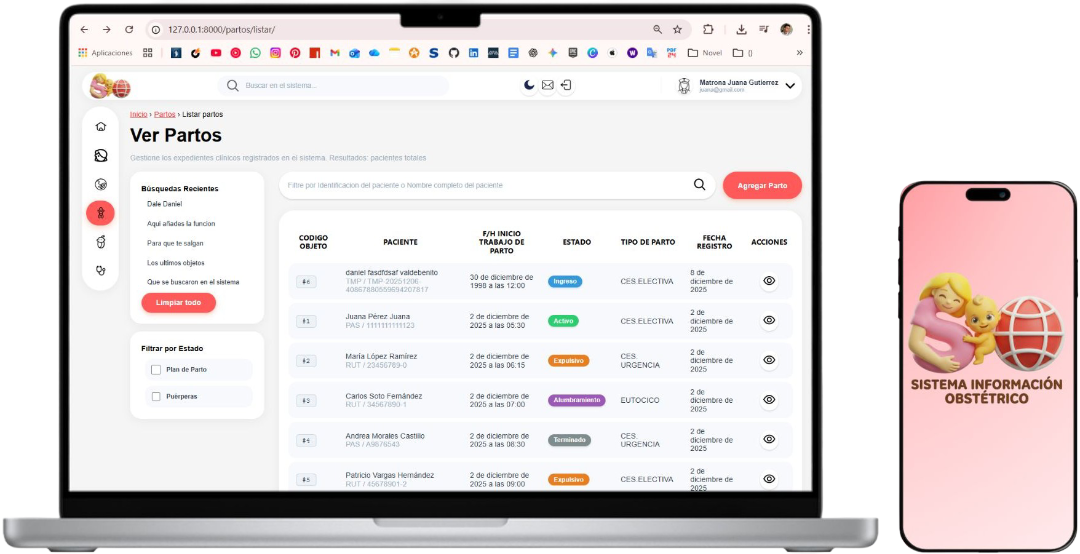
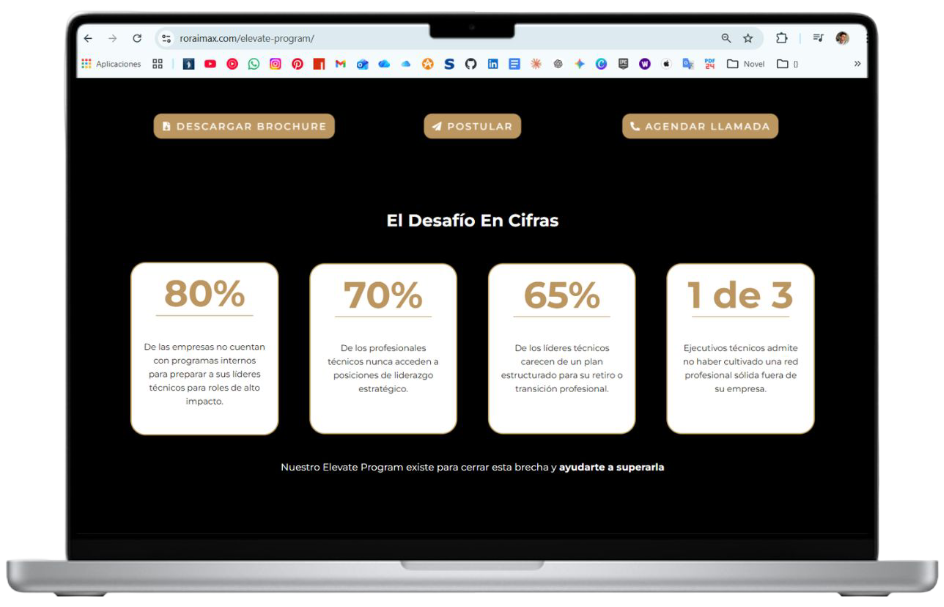
RRMX and UMDT at 90% complete, little details remaining

diff --git a/src/components/projects/solutions/roraimax/RoraimaxBentoGrid.module.css b/src/components/projects/solutions/roraimax/RoraimaxBentoGrid.module.css
@@ -1,6 +1,6 @@
 .roraimaxGrid {
   --roraimax-primary: #d99330;
-  --roraimax-reload: #ffa200; /* Ajustado a un naranja más cercano al boceto */
+  --roraimax-reload: #ffad39;
 
   display: grid;
   width: 100%;
@@ -162,7 +162,7 @@
 
 .heroTitle {
   font-family: var(--font-body);
-  font-size: 1.8rem;
+  font-size: 1.5rem;
   font-weight: 800;
   color: var(--color-text);
   margin: 0 0 0.3rem 0;
@@ -171,8 +171,18 @@
 .gradientText {
   display: block;
   font-size: 1.6rem;
-  color: var(--roraimax-primary);
+  background: linear-gradient(
+    180deg,
+    #ffd89e 0%,
+    #ffad39 30%,
+    #d99330 65%,
+    #a67324 100%
+  );
+  -webkit-background-clip: text;
+  background-clip: text;
+  color: transparent;
   font-weight: 700;
+  margin-top: -.5rem;
 }
 
 /* Layout interno del Hero para replicar el boceto */
@@ -219,43 +229,52 @@
 .brandingGrid {
   display: flex;
   flex-direction: column;
-  align-items: center;
-  justify-content: space-between;
+  justify-content: center;
+  width: 100%;
   height: 100%;
-  gap: 1rem;
+  gap: 1.5rem; /* Separación vertical entre las dos filas */
+  padding: 0.5rem 0;
 }
 
-.brandingTopRow {
+/* El contenedor clave para alinear a los extremos */
+.brandingRow {
   display: flex;
   align-items: center;
-  justify-content: center;
-  gap: 1.5rem;
+  justify-content: space-between;
   width: 100%;
 }
 
-.brandingLogo { width: 50px; object-fit: contain; }
-.heroTextImg { width: 100px; object-fit: contain; }
+/* Fila Superior */
+.brandingLogo { 
+  width: 90px; /* Más ancho para igualar el isotipo del boceto */
+  height: auto;
+  object-fit: contain; 
+}
 
 .colorPalette {
   display: flex;
   gap: 0.8rem;
-  justify-content: center;
+  align-items: center;
 }
 
 .colorCircle {
-  width: 36px;
-  height: 36px;
-  border-radius: 50%;
+  width: 38px;
+  height: 38px;
+  border-radius: 50%; /* Asegura el círculo perfecto */
+}
+
+/* Fila Inferior */
+.heroTextImg { 
+  width: 95px; 
+  height: auto;
+  object-fit: contain; 
 }
 
 .brandingButton {
-  width: 100%;
-  max-width: 140px;
+  width: 115px; /* Ajuste para el botón */
+  height: auto;
   object-fit: contain;
-  transition: transform 0.2s;
-  cursor: pointer;
 }
-.brandingButton:hover { transform: scale(1.05); }
 
 /* ── CARD 5: De negocio a diseño (Naranja - Horizontal) ──── */
 .cardReload {
@@ -265,19 +284,19 @@
   justify-content: center;
   gap: 1rem;
   padding: 1.5rem 1rem;
-  border-radius: 1.5rem; /* Bordes de píldora redondos si quieres más efecto: 3rem */
+  border-radius: 1.5rem; 
 }
 
 .reloadIcon {
-  width: 45px;
-  height: 45px;
+  width: 56px;
+  height: 56px;
   object-fit: contain;
 }
 
 .reloadLabel {
   font-family: var(--font-body);
-  font-size: 1.2rem;
-  font-weight: 800;
+  font-size: 1.1rem;
+  font-weight: 700;
   color: white;
   line-height: 1.2;
 }
@@ -287,37 +306,58 @@
   width: 100%;
   height: 100%;
   object-fit: cover;
-  border-radius: 12px;
+  border-radius: 1.3rem;
 }
 
-/* ── Responsive ──────────────────────────────────────────── */
-@media (max-width: 950px) {
+@media (max-width: 900px) {
   .roraimaxGrid {
     grid-template-columns: 1fr 1fr;
-    grid-template-rows: auto;
   }
 
-  /* Reordenamos para Tablet */
-  .heroCard      { grid-column: 1 / 3; grid-row: 1 / 2; }
-  .cardImpact    { grid-column: 1 / 2; grid-row: 2 / 3; }
-  .cardBranding  { grid-column: 2 / 3; grid-row: 2 / 3; }
-  .cardTech      { grid-column: 1 / 2; grid-row: 3 / 4; }
-  .cardReload    { grid-column: 2 / 3; grid-row: 3 / 4; }
-  .cardMentorship{ grid-column: 1 / 3; grid-row: 4 / 5; }
+  .heroCard       { grid-column: 1 / 3; grid-row: 1 / 2; }
+  .cardImpact     { grid-column: 1 / 2; grid-row: 2 / 3; }
+  .cardBranding   { grid-column: 2 / 3; grid-row: 2 / 3; }
+  .cardTech       { grid-column: 1 / 2; grid-row: 3 / 4; }
+  .cardReload     { grid-column: 2 / 3; grid-row: 3 / 4; }
+  .cardMentorship { grid-column: 1 / 3; grid-row: 4 / 5; }
 }
 
-@media (max-width: 650px) {
+@media (max-width: 600px) {
   .roraimaxGrid {
     grid-template-columns: 1fr;
-    padding: 1rem;
+    padding: 0 1rem;
   }
 
-  .heroCard, .cardImpact, .cardTech, .cardBranding, .cardReload, .cardMentorship {
+  .heroCard,
+  .cardImpact,
+  .cardTech,
+  .cardBranding,
+  .cardReload,
+  .cardMentorship {
     grid-column: 1 / 2;
     grid-row: auto;
   }
 
-  .heroImages { gap: 1rem; }
-  .heroLaptop { max-width: 260px; }
-  .heroPhone { max-width: 80px; }
+  .heroCard { order: -1; }
+  
+  .heroImages {
+    flex-direction: column;
+    align-items: center;
+    gap: 1rem;
+  }
+  
+  .heroLaptop {
+    width: 90%;
+    max-width: none;
+  }
+  
+  .heroPhone {
+    width: 70%;
+    margin-top: 2rem;
+  }
+
+  .heroExperience {
+    text-align: center;
+    max-width: none;
+  }
 }

diff --git a/src/components/projects/solutions/roraimax/RoraimaxBentoGrid.tsx b/src/components/projects/solutions/roraimax/RoraimaxBentoGrid.tsx
@@ -13,6 +13,7 @@ import circleGold     from '../../../../assets/RRMX/circle-gold.png';
 import circleBlack    from '../../../../assets/RRMX/circle-black.png';
 import montserratText from '../../../../assets/RRMX/montserrat.png';
 import rrmxButton     from '../../../../assets/RRMX/rrmx-button.png';
+import meetIcon       from '../../../../assets/RRMX/meeting.png';
 
 // ── Tech stack ────────────────────────────────────────────
 const techStack = [
@@ -28,7 +29,7 @@ const RoraimaxBentoGrid = () => {
       {/* ── 1. IMPACTO EN MARCA ───────────────────────── */}
       <div className={`${styles.card} ${styles.cardImpact} ${styles.animate} ${styles.delay0}`}>
         <span className={styles.cardLabel}>Impacto en marca</span>
-        <img src={laptopMockup} alt="Impacto en marca" className={styles.impactImg} />
+        <img src={meetIcon} alt="Impacto en marca" className={styles.impactImg} />
       </div>
 
       {/* ── 2. STACK TECNOLÓGICO ───────────────────────── */}
@@ -81,17 +82,22 @@ const RoraimaxBentoGrid = () => {
         <span className={styles.cardLabel}>Dirección visual Premium</span>
 
         <div className={styles.brandingGrid}>
-          <div className={styles.brandingTopRow}>
+          
+          {/* Fila Superior: Logo y Círculos */}
+          <div className={styles.brandingRow}>
             <img src={rrmxLogo} alt="Logo" className={styles.brandingLogo} />
+            <div className={styles.colorPalette}>
+              <img src={circleGold} alt="Dorado" className={styles.colorCircle} />
+              <img src={circleBlack} alt="Negro" className={styles.colorCircle} />
+            </div>
+          </div>
+
+          {/* Fila Inferior: Texto y Botón */}
+          <div className={styles.brandingRow}>
             <img src={montserratText} alt="Roraimax" className={styles.heroTextImg} />
+            <img src={rrmxButton} alt="POSTULAR" className={styles.brandingButton} />
           </div>
 
-          <div className={styles.colorPalette}>
-            <img src={circleGold} alt="Dorado" className={styles.colorCircle} />
-            <img src={circleBlack} alt="Negro" className={styles.colorCircle} />
-          </div>
-
-          <img src={rrmxButton} alt="POSTULAR" className={styles.brandingButton} />
         </div>
       </div>
 

diff --git a/src/components/projects/solutions/umdt/UMDTBentoGrid.module.css b/src/components/projects/solutions/umdt/UMDTBentoGrid.module.css
@@ -2,13 +2,7 @@
    UMDTBentoGrid.module.css — Estilos para "Un Millón de Traumas"
    ============================================================ */
 
-.umdtGrid {
-  /* Usamos variables locales para los colores del diseño */
-  --color-bg-card: #f4f4f6;
-  --color-text-main: #000000;
-  --color-blue: #0020c2;
-  --color-red: #e60000;
-  
+.umdtGrid {  
   display: flex;
   flex-direction: row;
   align-items: center; /* Alinea las tarjetas al centro verticalmente */
@@ -50,7 +44,7 @@
 }
 
 .cardLabel {
-  font-family: system-ui, -apple-system, sans-serif;
+  font-family: var(--font-body);
   font-size: 1.15rem;
   font-weight: 700;
   color: var(--color-text);
@@ -171,7 +165,7 @@
 }
 
 .techItem:hover {
-  transform: scale(1.15); /* Efecto pop en los iconos */
+  transform: scale(1.1); /* Efecto pop en los iconos */
 }
 
 .techIcon {
